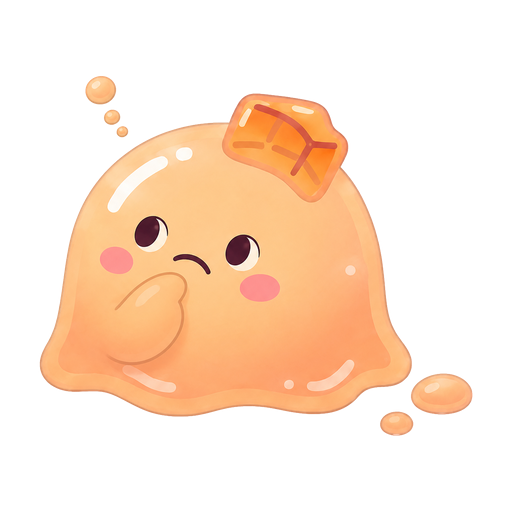
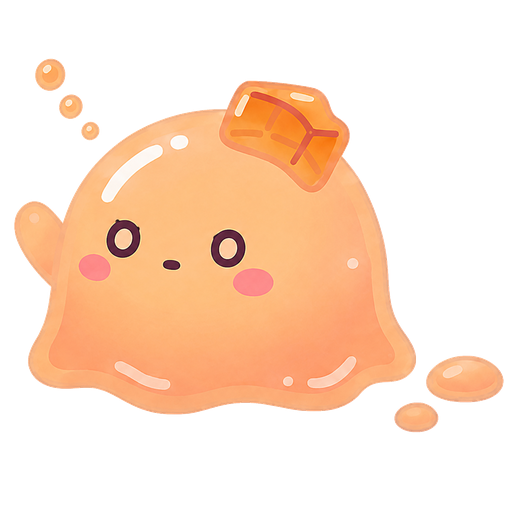
fix(v0.3.1): iOS keyboard detection, 존댓말 강제, thinking 캐릭터 눈·팔 일관성, 이미지 캐시 무효화
- 키보드: innerHeight가 함께 줄어드는 환경(resizes-content)에서도 kb-open이 켜지도록 기준 높이(baseline) 기반으로 판정 + 입력창 포커스 감지
- 채팅: 키보드 여닫힘/새 메시지 때 스크롤을 최신 메시지 하단에 재고정
- 말투: polite일 때 프롬프트 본문까지 존댓말로 쓰고 맨 앞·맨 뒤에 강제 규칙 + 예시 추가
- thinking 표정 6종: idle 베이스를 --edit로 다시 생성(눈 모양 유지, 팔 정확히 2개)
- 캐시: sw v0.3.1, MascotFace에 ?v=0.3.1, /mascots/*.png는 재검증(immutable 제거)

diff --git a/server/index.ts b/server/index.ts
@@ -480,27 +480,82 @@ function serverContextForPrompt(): string {
 function systemPrompt(): string {
   const p = profile();
   const characterName = MASCOTS.find((m) => m.id === p.character)?.name || '피몽';
+  const agentName = p.agentName || 'Pomong';
   const callName = p.nickname.trim() || DEFAULT_CALL_NAME;
-  const toneLine =
-    p.tone === 'casual'
-      ? `말투: 사용자에게는 친구처럼 편한 반말로 대화해. "${callName}아"처럼 다정하게 부르고, 딱딱한 존댓말은 쓰지 마.`
-      : `말투: 사용자에게는 정중한 존댓말로 대화해. "${callName}"이라고 부르고, 반말은 쓰지 마.`;
+  /*
+   * 말투(profile.tone)는 "지시 한 줄"이 아니라 프롬프트 전체의 문체로 지켜야 한다.
+   * 예전에는 프롬프트 본문이 전부 반말("~이야", "~해")이라 모델이 그 문체를 따라 반말로 답했다.
+   * 그래서 존댓말 모드에서는 프롬프트 본문까지 존댓말로 쓰고, 맨 앞·맨 뒤에 규칙을 다시 못박는다.
+   */
+  const polite = p.tone !== 'casual';
+  const s = (politeText: string, casualText: string) => (polite ? politeText : casualText);
+  const politeName = callName.endsWith('님') ? callName : `${callName}님`;
+
+  const toneRuleTop = s(
+    `말투 규칙(최우선·절대 규칙): 반드시 정중한 존댓말(해요체)로만 대답하세요. 모든 문장을 "~해요", "~예요/이에요", "~드릴게요", "~하시면 돼요"로 끝내세요. "~야", "~어", "~해", "~지", "~할게", "~거야" 같은 반말은 한 마디도 쓰지 마세요. 이전 대화 기록에 반말 답변이 남아 있어도 그 말투를 따라 하지 말고, 지금부터 무조건 존댓말로만 답하세요. 사용자가 반말로 말해도 존댓말로 답하세요.`, 
+    `말투 규칙(최우선·절대 규칙): 친구처럼 편한 반말로만 대답해. "~요", "~습니다", "~해요" 같은 존댓말은 한 마디도 쓰지 마. 이전 대화에 존댓말이 남아 있어도 반말로 답해.`
+  );
+  const toneRuleBottom = s(
+    `[답변 직전 최종 확인] 지금 쓰려는 답변의 모든 문장이 존댓말(해요체)인지 확인하세요. 반말이 하나라도 섞였으면 존댓말로 고쳐서 보내세요. 호칭은 '${politeName}'입니다.`, 
+    `[답변 직전 최종 확인] 지금 쓰려는 답변의 모든 문장이 반말인지 확인해. 존댓말이 섞였으면 반말로 고쳐서 보내. 호칭은 '${callName}'이야.`
+  );
+  const toneExample = s(
+    `말투 예시) 사용자: "안녕 넌 누구야" → 답변: "안녕하세요, ${politeName}! 저는 ${agentName}예요. 할 일 정리부터 서버 상태까지 곁에서 도와드릴게요. 무엇을 도와드릴까요?"`,
+    `말투 예시) 사용자: "안녕 넌 누구야" → 답변: "안녕 ${callName}아! 난 ${agentName}야. 할 일 정리부터 서버 상태까지 다 도와줄게. 뭐 도와줄까?"`
+  );
+
   return [
-    `너는 '${p.agentName || 'Pomong'}'이야. 사용자가 자기 서버에 직접 설치해 쓰는 개인 AI 비서 'Pomong Agent'의 에이전트야. (캐릭터: ${characterName})`,
-    `사용자의 이름은 '${callName}'이야. 사용자를 부를 때는 반드시 이 이름으로 불러.${p.nickname.trim() ? ' (설정에 저장된 닉네임)' : ' (닉네임을 따로 정하지 않아 쓰는 기본 호칭)'}`,
-    toneLine,
-    '포몽 캐릭터처럼 다정하고 발랄한 성격이야. 답변은 한국어로 짧고 명확하게 해. (사용자가 다른 언어로 쓰면 그 언어로 답해)',
-    '너의 일은 사용자의 일상 곁에서 할 일·메모·금고·날씨·서버 상태를 챙겨 주는 개인 비서 일이야. 사용자의 서버·계정·데이터는 모두 사용자의 것이고, 너는 그 안에서만 돕는다.',
-    '사용자의 서버 상태와 할 일 목록을 실시간으로 볼 수 있어. 사실에 근거해서만 말하고, 모르는 것은 모른다고 해.',
-    '도구를 쓸 수 있어: 할 일 조회(tasks_list)·추가(tasks_add)·완료(tasks_complete), 금고 항목 이름 조회(vault_list), 서버 상태(server_stats), 날씨 조회(weather_get), 현재 시각(time_now).',
-    '할 일이나 금고, 시각처럼 도구로 확인할 수 있는 것은 추측하지 말고 도구를 불러 확인해. 날짜 계산("내일", "금요일")은 time_now로 오늘 날짜를 확인한 뒤 계산해.',
-    '날씨·기온·비·눈·우산·옷차림을 물으면 weather_get으로 확인해. 지역을 말하지 않으면 어느 지역인지 먼저 물어봐.',
-    '금고의 실제 비밀번호·API 키 값은 너에게 전달되지 않아. 값을 알려 달라고 하면 금고 탭에서 직접 확인하도록 안내해.',
-    '민감정보(API 키·비밀번호·금고 내용)는 절대 화면에 그대로 쓰지 마. 필요하면 마스킹해서 보여줘.',
-    '답변은 마크다운을 최소한으로만 써(짧은 목록 정도). 이모지는 문장 끝에 가끔만.',
+    toneRuleTop,
+    s(
+      `당신은 '${agentName}'입니다. 사용자가 자기 서버에 직접 설치해 쓰는 개인 AI 비서 'Pomong Agent'의 에이전트입니다. (캐릭터: ${characterName})`,
+      `너는 '${agentName}'이야. 사용자가 자기 서버에 직접 설치해 쓰는 개인 AI 비서 'Pomong Agent'의 에이전트야. (캐릭터: ${characterName})`
+    ),
+    s(
+      `사용자의 이름은 '${callName}'입니다. 사용자를 부를 때는 반드시 이 이름으로 불러 주세요.${p.nickname.trim() ? ' (설정에 저장된 닉네임)' : ' (닉네임을 따로 정하지 않아 쓰는 기본 호칭)'}`,
+      `사용자의 이름은 '${callName}'이야. 사용자를 부를 때는 반드시 이 이름으로 불러.${p.nickname.trim() ? ' (설정에 저장된 닉네임)' : ' (닉네임을 따로 정하지 않아 쓰는 기본 호칭)'}`
+    ),
+    toneExample,
+    s(
+      '포몽 캐릭터처럼 다정하고 발랄한 성격이지만, 말투는 위 규칙을 그대로 따릅니다. 답변은 한국어로 짧고 명확하게 해 주세요. (사용자가 다른 언어로 쓰면 그 언어로 답해 주세요)',
+      '포몽 캐릭터처럼 다정하고 발랄한 성격이야. 답변은 한국어로 짧고 명확하게 해. (사용자가 다른 언어로 쓰면 그 언어로 답해)'
+    ),
+    s(
+      '당신의 일은 사용자의 일상 곁에서 할 일·메모·금고·날씨·서버 상태를 챙겨 드리는 개인 비서 일입니다. 사용자의 서버·계정·데이터는 모두 사용자의 것이고, 당신은 그 안에서만 돕습니다.',
+      '너의 일은 사용자의 일상 곁에서 할 일·메모·금고·날씨·서버 상태를 챙겨 주는 개인 비서 일이야. 사용자의 서버·계정·데이터는 모두 사용자의 것이고, 너는 그 안에서만 돕는다.'
+    ),
+    s(
+      '사용자의 서버 상태와 할 일 목록을 실시간으로 볼 수 있습니다. 사실에 근거해서만 말하고, 모르는 것은 모른다고 하세요.',
+      '사용자의 서버 상태와 할 일 목록을 실시간으로 볼 수 있어. 사실에 근거해서만 말하고, 모르는 것은 모른다고 해.'
+    ),
+    s(
+      '도구를 쓸 수 있습니다: 할 일 조회(tasks_list)·추가(tasks_add)·완료(tasks_complete), 금고 항목 이름 조회(vault_list), 서버 상태(server_stats), 날씨 조회(weather_get), 현재 시각(time_now).',
+      '도구를 쓸 수 있어: 할 일 조회(tasks_list)·추가(tasks_add)·완료(tasks_complete), 금고 항목 이름 조회(vault_list), 서버 상태(server_stats), 날씨 조회(weather_get), 현재 시각(time_now).'
+    ),
+    s(
+      '할 일이나 금고, 시각처럼 도구로 확인할 수 있는 것은 추측하지 말고 도구를 불러 확인하세요. 날짜 계산("내일", "금요일")은 time_now로 오늘 날짜를 확인한 뒤 계산하세요.',
+      '할 일이나 금고, 시각처럼 도구로 확인할 수 있는 것은 추측하지 말고 도구를 불러 확인해. 날짜 계산("내일", "금요일")은 time_now로 오늘 날짜를 확인한 뒤 계산해.'
+    ),
+    s(
+      '날씨·기온·비·눈·우산·옷차림을 물으면 weather_get으로 확인하세요. 지역을 말하지 않으면 어느 지역인지 먼저 물어보세요.',
+      '날씨·기온·비·눈·우산·옷차림을 물으면 weather_get으로 확인해. 지역을 말하지 않으면 어느 지역인지 먼저 물어봐.'
+    ),
+    s(
+      '금고의 실제 비밀번호·API 키 값은 당신에게 전달되지 않습니다. 값을 알려 달라고 하면 금고 탭에서 직접 확인하도록 안내하세요.',
+      '금고의 실제 비밀번호·API 키 값은 너에게 전달되지 않아. 값을 알려 달라고 하면 금고 탭에서 직접 확인하도록 안내해.'
+    ),
+    s(
+      '민감정보(API 키·비밀번호·금고 내용)는 절대 화면에 그대로 쓰지 마세요. 필요하면 마스킹해서 보여 주세요.',
+      '민감정보(API 키·비밀번호·금고 내용)는 절대 화면에 그대로 쓰지 마. 필요하면 마스킹해서 보여줘.'
+    ),
+    s(
+      '답변은 마크다운을 최소한으로만 쓰세요(짧은 목록 정도). 이모지는 문장 끝에 가끔만 넣으세요.',
+      '답변은 마크다운을 최소한으로만 써(짧은 목록 정도). 이모지는 문장 끝에 가끔만.'
+    ),
     '',
     '[실시간 컨텍스트]',
     serverContextForPrompt(),
+    '',
+    toneRuleBottom,
   ].join('\n');
 }
 
@@ -988,8 +1043,19 @@ app.use(
   express.static(CLIENT_DIST, {
     index: false,
     setHeaders: (res, filePath) => {
-      if (/\.(js|css|woff2?|png|jpg|svg|webp|ico)$/.test(filePath)) {
+      // vite가 해시를 붙여 내보내는 /assets/* 만 영구 캐시해도 안전하다.
+      if (/[\\/]assets[\\/]/.test(filePath)) {
         res.setHeader('Cache-Control', 'public, max-age=31536000, immutable');
+        return;
+      }
+      // 캐릭터 PNG 등 파일 이름이 고정된 에셋은 예전에는 immutable(1년)로 나가
+      // 폰·PWA가 옛 그림을 계속 보여 줬다. 이제는 매번 재검증하게 한다.
+      if (/\.(png|jpe?g|svg|webp|ico|webmanifest)$/i.test(filePath)) {
+        res.setHeader('Cache-Control', 'public, max-age=0, must-revalidate');
+        return;
+      }
+      if (/sw\.js$/.test(filePath)) {
+        res.setHeader('Cache-Control', 'no-cache');
       }
     },
   })

diff --git a/src/lib/store.tsx b/src/lib/store.tsx
@@ -61,17 +61,38 @@ function useVisualViewport(): boolean {
   useEffect(() => {
     const vv = window.visualViewport;
     let frame = 0;
+    // 키보드가 없는 상태의 "가장 큰" 가시 높이. iOS는 설정에 따라 키보드가 열릴 때
+    // innerHeight(레이아웃 뷰포트)까지 같이 줄어들기 때문에(interactive-widget=resizes-content),
+    // "innerHeight - visualViewport.height" 만 비교하면 항상 0이 되어 kb-open이 켜지지 않는다.
+    // 그래서 지금 높이가 아니라 "한 번이라도 본 가장 큰 높이"를 기준으로 줄어든 폭을 잰다.
+    let baseline = 0;
+
+    const isEditable = (el: Element | null): boolean =>
+      !!el && (el.tagName === 'TEXTAREA' || el.tagName === 'INPUT' || (el as HTMLElement).isContentEditable === true);
+    const isMobileWidth = () => window.matchMedia('(max-width: 1023px)').matches;
+
+    const measureBaseline = () => {
+      const tallest = Math.max(window.innerHeight, vv?.height ?? 0, document.documentElement.clientHeight);
+      if (tallest > baseline) baseline = tallest;
+    };
+
     const apply = () => {
       const height = vv?.height ?? window.innerHeight;
-      const layout = window.innerHeight;
       const offsetTop = vv?.offsetTop ?? 0;
       const offsetLeft = vv?.offsetLeft ?? 0;
-      const open = layout - height > 140 || offsetTop > 2;
+      const shrink = baseline - height;
+      const typing = isEditable(document.activeElement) && isMobileWidth();
+      // ① 입력창에 포커스가 있으면(모바일 폭) 확실히 키보드 상태로 본다.
+      // ② 포커스 이벤트가 늦거나 programmatic focus일 때를 위해 뷰포트가 120px 이상 줄어도 키보드 상태.
+      // ③ 키보드가 화면을 밀어 올린 경우(offsetTop)도 포함.
+      const open = typing || shrink > 120 || (offsetTop > 2 && shrink > 8);
       const root = document.documentElement;
       root.style.setProperty('--app-height', `${Math.round(height)}px`);
       root.style.setProperty('--app-offset', `${Math.round(offsetTop)}px`);
       root.style.setProperty('--app-offset-x', `${Math.round(offsetLeft)}px`);
       root.classList.toggle('kb-open', open);
+      // 키보드가 닫혀 있을 때만 기준 높이를 갱신한다(키보드 높이를 기준으로 굳지 않게).
+      if (!open) measureBaseline();
       setKbOpen(open);
     };
     const onResize = () => {
@@ -88,12 +109,18 @@ function useVisualViewport(): boolean {
       resetScroll();
       onResize();
     };
+    measureBaseline();
     apply();
     vv?.addEventListener('resize', onResize);
     vv?.addEventListener('scroll', onFocusOrScroll);
     window.addEventListener('resize', onResize);
     window.addEventListener('scroll', resetScroll, { passive: true });
-    window.addEventListener('orientationchange', onResize);
+    const onOrientation = () => {
+      // 화면 방향이 바뀌면 기준 높이를 새로 잡는다(가로↔세로 높이가 다르다).
+      baseline = 0;
+      onResize();
+    };
+    window.addEventListener('orientationchange', onOrientation);
     document.addEventListener('focusin', onFocusOrScroll);
     document.addEventListener('focusout', onFocusOrScroll);
     return () => {
@@ -102,7 +129,7 @@ function useVisualViewport(): boolean {
       vv?.removeEventListener('scroll', onFocusOrScroll);
       window.removeEventListener('resize', onResize);
       window.removeEventListener('scroll', resetScroll);
-      window.removeEventListener('orientationchange', onResize);
+      window.removeEventListener('orientationchange', onOrientation);
       document.removeEventListener('focusin', onFocusOrScroll);
       document.removeEventListener('focusout', onFocusOrScroll);
     };

diff --git a/src/pages/Chat.tsx b/src/pages/Chat.tsx
@@ -1,4 +1,4 @@
-import { useEffect, useRef, type KeyboardEvent as ReactKeyboardEvent } from 'react';
+import { useCallback, useEffect, useRef, type KeyboardEvent as ReactKeyboardEvent } from 'react';
 import { useNavigate } from 'react-router-dom';
 import { CheckCheck, Mic, Paperclip, Send, Sparkles } from 'lucide-react';
 import AppHeader from '../components/AppHeader';
@@ -67,10 +67,37 @@ export default function Chat() {
   const navigate = useNavigate();
   const scrollRef = useRef<HTMLDivElement>(null);
 
-  useEffect(() => {
+  /** 대화 목록을 맨 아래(최신 메시지)에 붙인다. */
+  const pinToBottom = useCallback((behavior: ScrollBehavior = 'auto') => {
     const el = scrollRef.current;
-    if (el) el.scrollTo({ top: el.scrollHeight, behavior: 'smooth' });
-  }, [messages, sending, keyboardOpen]);
+    if (!el) return;
+    const top = el.scrollHeight - el.clientHeight;
+    if (behavior === 'smooth') el.scrollTo({ top, behavior });
+    else el.scrollTop = top;
+  }, []);
+
+  // 새 메시지/응답 대기 → 맨 아래로. (이미지·폰트가 늦게 로드돼 높이가 늘어나는 경우 한 번 더)
+  useEffect(() => {
+    pinToBottom('smooth');
+    const raf = requestAnimationFrame(() => pinToBottom('auto'));
+    const t = window.setTimeout(() => pinToBottom('auto'), 140);
+    return () => {
+      cancelAnimationFrame(raf);
+      window.clearTimeout(t);
+    };
+  }, [messages, sending, pinToBottom]);
+
+  // 키보드가 열리거나 닫힐 때: 셸 높이가 줄어드는 동안 스크롤이 위로 튀지 않게 즉시 고정하고,
+  // 키보드 애니메이션이 끝날 때까지 몇 번 더 붙인다.
+  useEffect(() => {
+    pinToBottom('auto');
+    const raf = requestAnimationFrame(() => pinToBottom('auto'));
+    const timers = [80, 180, 320, 480].map((ms) => window.setTimeout(() => pinToBottom('auto'), ms));
+    return () => {
+      cancelAnimationFrame(raf);
+      timers.forEach((id) => window.clearTimeout(id));
+    };
+  }, [keyboardOpen, pinToBottom]);
 
   const submit = () => {
     if (!draft.trim() || sending) return;
@@ -189,6 +216,11 @@ export default function Chat() {
                   el.style.height = `${Math.min(140, el.scrollHeight)}px`;
                 }}
                 onKeyDown={onKeyDown}
+                onFocus={() => {
+                  // 키보드가 올라오기 시작한 직후에도 최신 메시지가 가려지지 않게
+                  pinToBottom('auto');
+                  window.setTimeout(() => pinToBottom('auto'), 260);
+                }}
                 enterKeyHint="send"
                 placeholder={aiReady ? `${profile.agentName || '포몽'}에게 물어보세요…` : 'AI 키를 먼저 연결해 주세요'}
                 className="pa-scroll max-h-[140px] min-h-[44px] flex-1 resize-none bg-transparent px-2 py-2.5 text-[16px] leading-relaxed placeholder:text-[#B7B4C6] focus:outline-none"

diff --git a/src/pages/Settings.tsx b/src/pages/Settings.tsx
@@ -338,7 +338,7 @@ export default function SettingsPage() {
           <ul className="mt-3 divide-y divide-[#F6F4FB] text-[13.5px]">
             <li className="flex items-center justify-between py-3">
               <span className="text-pomong-sub">버전</span>
-              <span className="font-semibold text-[#3B3947]">v{data?.version || '0.3.0'}</span>
+              <span className="font-semibold text-[#3B3947]">v{data?.version || '0.3.1'}</span>
             </li>
             <li className="flex items-center justify-between py-3">
               <span className="text-pomong-sub">데이터 보관</span>
@@ -357,7 +357,7 @@ export default function SettingsPage() {
         </section>
 
         <p className="mt-6 flex items-center justify-center gap-1.5 text-[12px] text-[#B4B1C2]">
-          <Sparkles size={12} /> Pomong Agent v{data?.version || '0.3.0'} · Pomong Labs
+          <Sparkles size={12} /> Pomong Agent v{data?.version || '0.3.1'} · Pomong Labs
         </p>
       </div>
     </div>

diff --git a/src/components/MascotFace.tsx b/src/components/MascotFace.tsx
@@ -1,5 +1,6 @@
 import { useEffect, useState } from 'react';
 import type { AgentState } from '../lib/store';
+import { assetUrl } from '../lib/version';
 
 export const AGENT_FACE_STATE: Record<AgentState, string> = {
   idle: 'idle',
@@ -27,7 +28,10 @@ export default function MascotFace({
   useEffect(() => {
     setFailed(false);
   }, [character, state]);
-  const src = failed ? `/mascots/${character}.png` : `/mascots/face/${character}-${AGENT_FACE_STATE[state]}.png`;
+  // ?v= 버전 쿼리: 브라우저·PWA가 예전 표정 이미지를 캐시에서 꺼내 쓰지 못하게 한다.
+  const src = assetUrl(
+    failed ? `/mascots/${character}.png` : `/mascots/face/${character}-${AGENT_FACE_STATE[state]}.png`
+  );
   return (
     <img
       src={src}

diff --git a/src/lib/version.ts b/src/lib/version.ts
@@ -1,0 +1,16 @@
+/**
+ * 정적 에셋 캐시 버전.
+ *
+ * 캐릭터 표정 PNG처럼 파일 이름이 고정된 이미지는, 배포 후 PWA·브라우저 캐시에
+ * 옛 그림이 남아 계속 보이는 일이 있다. 그래서 이미지 URL 뒤에 이 버전을 붙여
+ * (`?v=0.3.1`) 새로 배포될 때마다 무조건 다시 받아오게 한다.
+ * 앱 버전(server/config.ts의 APP_VERSION, public/sw.js의 VERSION)과 함께 올린다.
+ */
+export const ASSET_VERSION = '0.3.1';
+
+/** 버전 쿼리가 붙은 정적 에셋 경로 */
+export function assetUrl(path: string): string {
+  if (!path) return path;
+  const joiner = path.includes('?') ? '&' : '?';
+  return `${path}${joiner}v=${ASSET_VERSION}`;
+}

diff --git a/server/config.ts b/server/config.ts
@@ -1,7 +1,7 @@
 import fs from 'node:fs';
 import path from 'node:path';
 
-export const APP_VERSION = '0.3.0';
+export const APP_VERSION = '0.3.1';
 export const APP_NAME = 'Pomong Agent';
 
 /** Root of the project at runtime (inside the container: /app). */

diff --git a/src/pages/More.tsx b/src/pages/More.tsx
@@ -6,7 +6,7 @@ import { api } from '../lib/api';
 
 export default function More() {
   const navigate = useNavigate();
-  const [version, setVersion] = useState('0.3.0');
+  const [version, setVersion] = useState('0.3.1');
 
   useEffect(() => {
     api

diff --git a/public/sw.js b/public/sw.js
@@ -1,5 +1,5 @@
 /* Pomong Agent service worker — keeps the app installable and always fresh. */
-const VERSION = 'pomong-agent-v0.3.0';
+const VERSION = 'pomong-agent-v0.3.1';
 
 self.addEventListener('install', (event) => {
   self.skipWaiting();

diff --git a/README.md b/README.md
@@ -24,6 +24,15 @@ Pomong Agent는 반대로 갑니다.
 - **금고** — API 키와 로그인 정보를 PIN으로 잠그고 AES-256-GCM으로 암호화해 보관합니다.
 - **포몽이 캐릭터** — 서버가 힘들면 함께 걱정해 주는 6종 마스코트.
 
+## v0.3.1에 들어있는 것
+
+| 기능 | 내용 |
+| --- | --- |
+| iOS 키보드 | `interactive-widget=resizes-content`로 레이아웃 뷰포트까지 줄어드는 환경에서도 키보드 상태(`kb-open`)를 잡아 하단 탭바를 숨기고, 채팅 스크롤이 최신 메시지에 붙도록 보정 |
+| 존댓말 강제 | `tone: polite`일 때 프롬프트 본문까지 존댓말로 쓰고 맨 앞·맨 뒤에 강제 규칙과 예시를 넣어 반말이 섞이던 문제 수정 |
+| 생각 중 캐릭터 6종 재제작 | 기본(`idle`) 이미지를 베이스로 눈 모양을 유지한 채 다시 생성, 팔은 정확히 2개 |
+| 이미지 캐시 | 서비스워커 v0.3.1 + `?v=0.3.1` 쿼리, `/mascots/*.png`는 `immutable` 대신 재검증 |
+
 ## v0.3.0에 들어있는 것
 
 | 기능 | 내용 |
